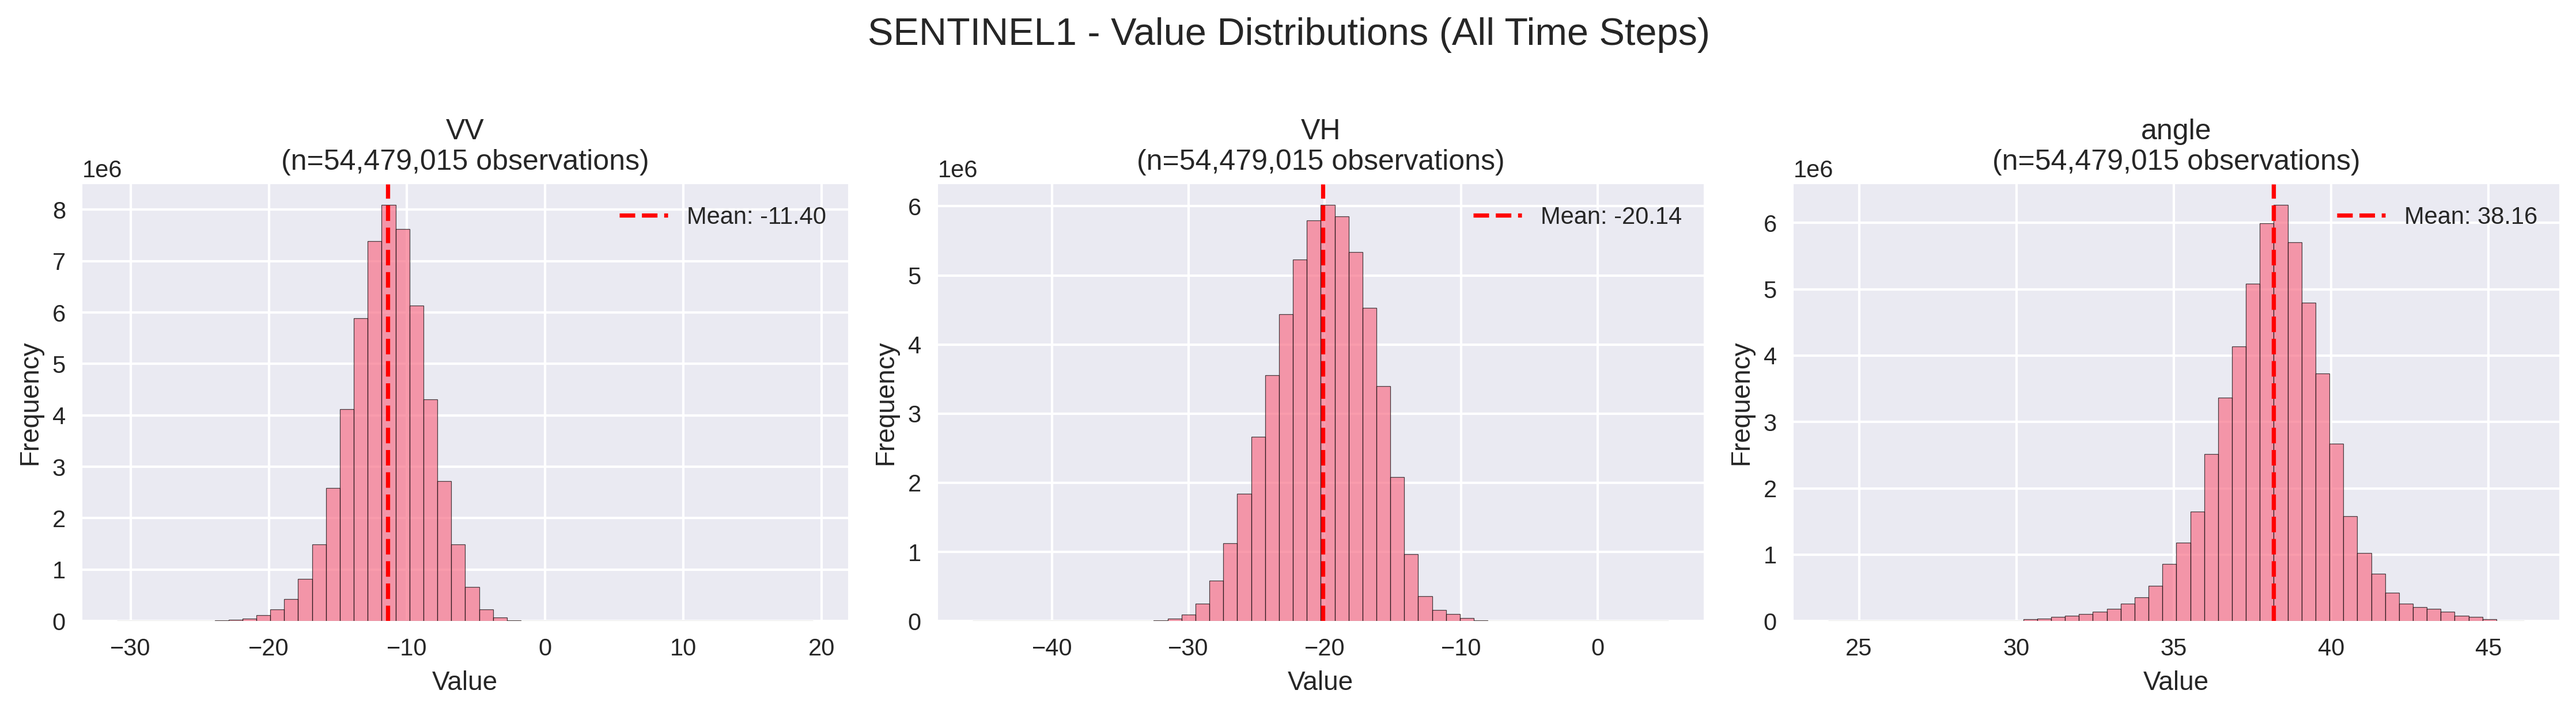
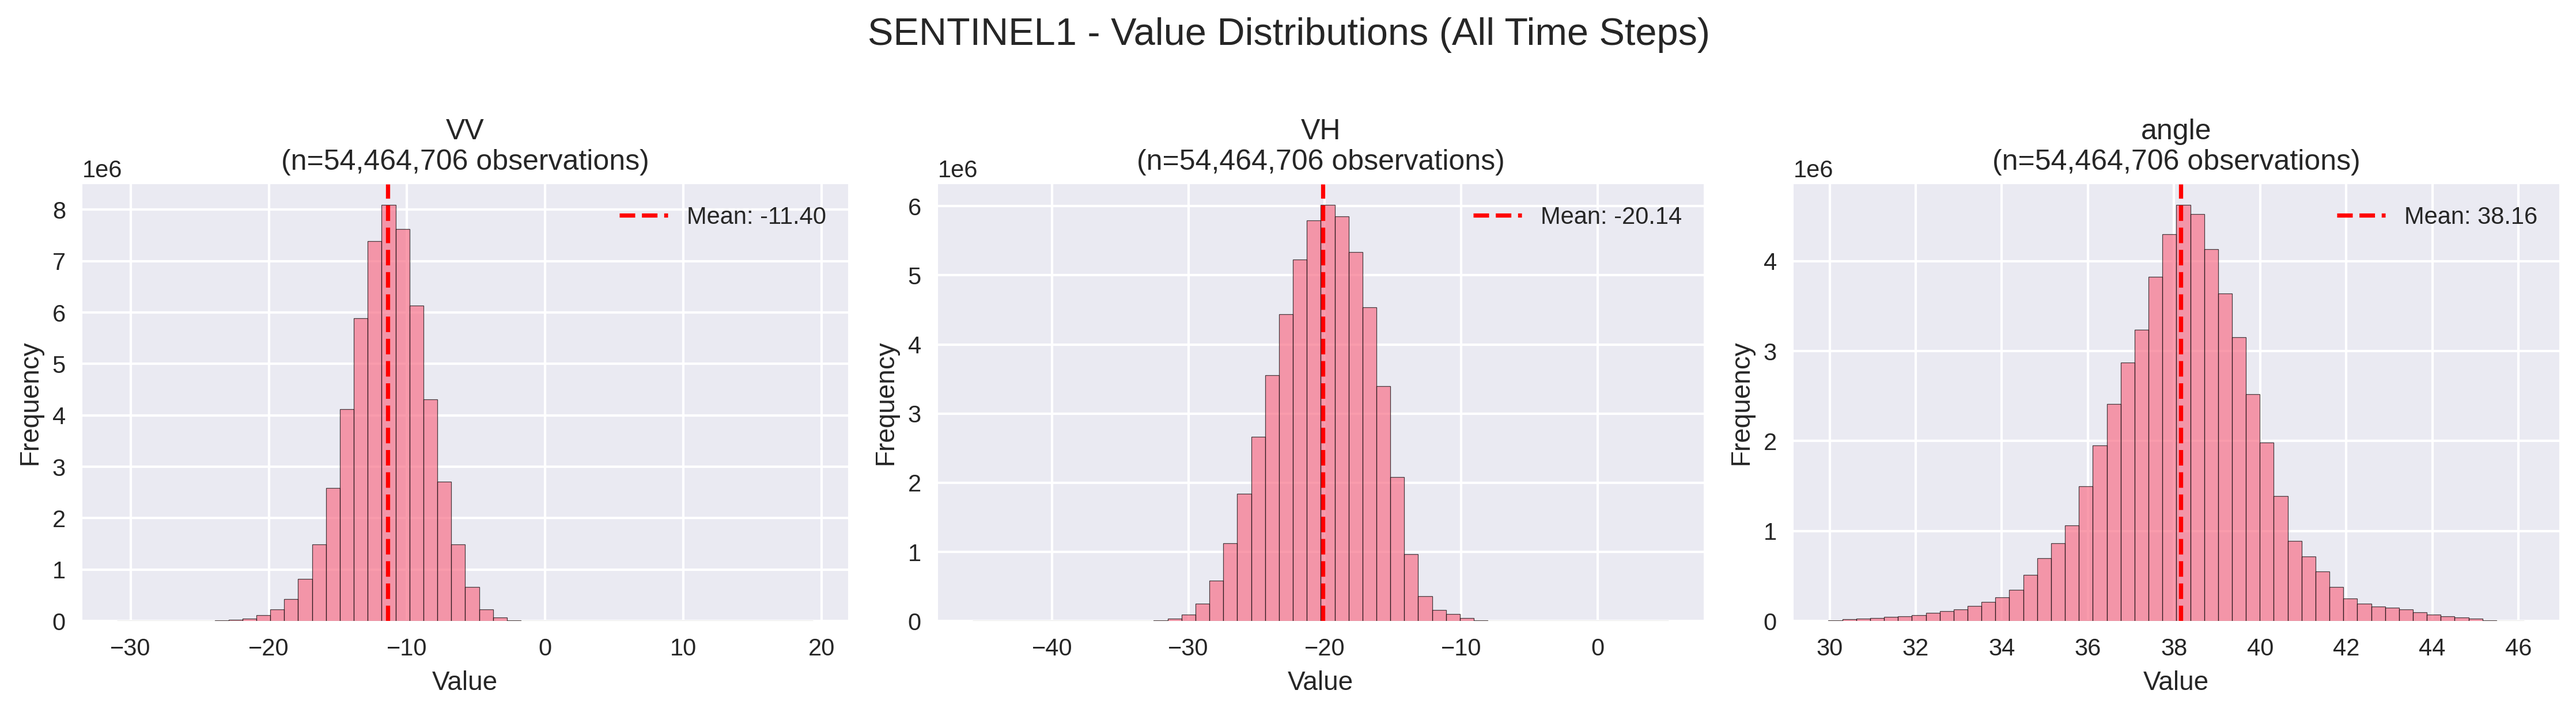
updated cleaning code to keep nan values

diff --git a/src/cropfm/data/clean_data_old.py b/src/cropfm/data/clean_data_old.py
@@ -136,6 +136,66 @@ def remove_trailing_nans(data, timestamps, valid_mask):
     
     return trimmed_data_list, trimmed_timestamps_list, trimmed_valid_mask_list
 
+def interpolate_no_data_values(data, no_data_value, interpolation_method='linear'):
+    """
+    Interpolate no_data values (typically 0) in the data.
+    
+    Args:
+        data: (max_time, n_vars) array
+        no_data_value: value to replace (e.g., 0)
+        interpolation_method: 'linear' or 'cubic'
+    
+    Returns:
+        data with no_data values interpolated
+    """
+    if len(data) == 0:
+        return data
+    
+    interpolated_data = data.copy()
+    n_time, n_vars = data.shape
+    
+    for var_idx in range(n_vars):
+        var_data = data[:, var_idx]
+        
+        # Find indices where data is valid (not NaN and not no_data_value)
+        valid_mask = (~np.isnan(var_data)) & (var_data != no_data_value)
+        valid_indices = np.where(valid_mask)[0]
+        
+        # Find indices that need interpolation
+        invalid_mask = (np.isnan(var_data)) | (var_data == no_data_value)
+        invalid_indices = np.where(invalid_mask)[0]
+        
+        if len(invalid_indices) == 0:
+            continue
+        
+        # Create interpolation function
+        try:
+            if interpolation_method == 'cubic' and len(valid_indices) >= 4:
+                interp_func = interp1d(
+                    valid_indices, 
+                    var_data[valid_indices], 
+                    kind='cubic',
+                    fill_value='extrapolate',
+                    bounds_error=False
+                )
+            else:
+                interp_func = interp1d(
+                    valid_indices, 
+                    var_data[valid_indices], 
+                    kind='linear',
+                    fill_value='extrapolate',
+                    bounds_error=False
+                )
+            
+            # Interpolate only for invalid indices
+            interpolated_values = interp_func(invalid_indices)
+            interpolated_data[invalid_indices, var_idx] = interpolated_values
+        except:
+            # If interpolation fails, leave as is
+            pass
+    
+    return interpolated_data
+
 
 def get_week_key(dt):
     """Get year-week key for grouping"""
@@ -143,7 +203,7 @@ def get_week_key(dt):
         return None
     return f"{dt.year}-W{dt.isocalendar()[1]:02d}"
 
-def aggregate_to_weekly(data, timestamps, modality_name, aggregation_method='mean'):
+def aggregate_to_weekly(data, timestamps, aggregation_method='mean'):
     """
     Aggregate temporal data to weekly resolution using pandas resample (much faster).
     Always returns exactly 52 weeks, interpolating missing weeks.
@@ -180,12 +240,6 @@ def aggregate_to_weekly(data, timestamps, modality_name, aggregation_method='mea
     # Filter to valid timestamps and data
     valid_timestamps = timestamps_series[valid_mask]
     valid_data = data[valid_mask]
-
-    # Treat modality-specific no_data values as NaN before aggregation
-    if modality_name == 'fapar':
-        valid_data = np.where(valid_data == NO_DATA_VALUE.get('fapar', 0), np.nan, valid_data)
-    elif modality_name == 'sentinel2':
-        valid_data = np.where(valid_data == NO_DATA_VALUE.get('sentinel2', 0), np.nan, valid_data)
     
     # Determine the year from the first timestamp
     year = valid_timestamps[0].year
@@ -228,8 +282,32 @@ def aggregate_to_weekly(data, timestamps, modality_name, aggregation_method='mea
         if week_key in all_week_keys:
             week_idx = all_week_keys.index(week_key)
             weekly_data_full[week_idx] = row_data
-            # mark valid if any non-NaN value exists in this week
-            weekly_valid_mask[week_idx] = ~np.isnan(row_data).all()
+            weekly_valid_mask[week_idx] = True
+    
+    # Interpolate missing weeks for each variable
+    for var_idx in range(n_vars):
+        var_data = weekly_data_full[:, var_idx]
+        if np.any(np.isnan(var_data)):
+            valid_indices = np.where(~np.isnan(var_data))[0]
+            if len(valid_indices) > 1:
+                if len(valid_indices) < 10:
+                    print('----------------------------------- less than 10 valid indices -----------------------------------')
+                # Use linear interpolation (works with 2+ points, more robust than cubic)
+                try:
+                    interp_func = interp1d(valid_indices, var_data[valid_indices], 
+                                         kind='linear', fill_value='extrapolate', 
+                                         bounds_error=False)
+                    all_indices = np.arange(52)
+                    var_data_interp = interp_func(all_indices)
+                    weekly_data_full[:, var_idx] = var_data_interp
+                except Exception as e:
+                    # If interpolation fails, leave as NaN
+                    print(f"Warning: Interpolation failed for variable {var_idx}: {e}")
+            elif len(valid_indices) == 1:
+                # Only one data point - repeat for all 52 weeks
+                print('----------------------------------------------------- only one data point -----------------------------------------------------')
+                single_value = var_data[valid_indices[0]]
+                weekly_data_full[:, var_idx] = single_value
     
     weekly_timestamps = np.array(all_week_keys)
     
@@ -332,8 +410,7 @@ def main(args):
             # Aggregate to weekly
             weekly_data, weekly_timestamps, weekly_valid_mask = aggregate_to_weekly(
                 sample_data, 
-                sample_timestamps,
-                modality_name,
+                sample_timestamps, 
                 aggregation_method='mean' # hardcoded for now
             )
             
@@ -346,7 +423,126 @@ def main(args):
                 aggregated_timestamps_out[i, :n_weeks_to_use] = weekly_timestamps[:n_weeks_to_use]
                 aggregated_valid_mask_out[i, :n_weeks_to_use] = weekly_valid_mask[:n_weeks_to_use]
 
-        # Step 2 & 3 removed: we keep NaNs for missing/no_data and rely on valid_mask to indicate usable entries
+        
+        # Step 2: Check for NaN values in aggregated data (only in valid positions)
+        print(f"  Checking for NaN values after aggregation...")
+        # Only check positions where valid_mask is True
+        valid_positions = aggregated_valid_mask_out
+        if np.any(valid_positions):
+            valid_data = aggregated_data_out[valid_positions]
+            nan_count = np.sum(np.isnan(valid_data))
+            if nan_count > 0:
+                total_valid = valid_data.size
+                nan_percentage = nan_count / total_valid * 100
+                
+                print(f"\n  ⚠ NaN DETECTION DETAILS for {modality_name}:")
+                print(f"    Total NaN values: {nan_count:,} / {total_valid:,} ({nan_percentage:.2f}%)")
+                
+                # Check NaN distribution across variables
+                print(f"\n    NaN distribution by variable:")
+                for var_idx, var_name in enumerate(variable_names):
+                    var_data = aggregated_data_out[:, :, var_idx]  # (n_samples, max_weeks)
+                    var_valid_data = var_data[valid_positions]
+                    var_nan_count = np.sum(np.isnan(var_valid_data))
+                    if var_nan_count > 0:
+                        var_nan_pct = var_nan_count / len(var_valid_data) * 100
+                        print(f"      {var_name}: {var_nan_count:,} NaNs ({var_nan_pct:.2f}%)")
+                
+                # Find samples with NaNs
+                samples_with_nans = []
+                for i in range(n_samples):
+                    sample_data = aggregated_data_out[i]  # (max_weeks, n_vars)
+                    sample_mask = aggregated_valid_mask_out[i]  # (max_weeks,)
+                    if np.any(sample_mask):
+                        sample_valid_data = sample_data[sample_mask]
+                        if np.any(np.isnan(sample_valid_data)):
+                            nan_in_sample = np.sum(np.isnan(sample_valid_data))
+                            total_in_sample = sample_valid_data.size
+                            samples_with_nans.append((i, nan_in_sample, total_in_sample))
+                
+                print(f"\n    Samples with NaNs: {len(samples_with_nans):,} / {n_samples:,} ({len(samples_with_nans)/n_samples*100:.2f}%)")
+                
+                # Show first 10 samples with NaNs
+                if len(samples_with_nans) > 0:
+                    print(f"\n    First 10 samples with NaNs:")
+                    for sample_idx, nan_count_sample, total_count_sample in samples_with_nans[:10]:
+                        nan_pct_sample = nan_count_sample / total_count_sample * 100
+                        print(f"      Sample {sample_idx}: {nan_count_sample}/{total_count_sample} NaNs ({nan_pct_sample:.2f}%)")
+                    
+                    # Show detailed example of first sample with NaNs
+                    example_idx = samples_with_nans[0][0]
+                    example_data = aggregated_data_out[example_idx]  # (max_weeks, n_vars)
+                    example_mask = aggregated_valid_mask_out[example_idx]  # (max_weeks,)
+                    example_timestamps = aggregated_timestamps_out[example_idx]  # (max_weeks,)
+                    
+                    print(f"\n    Example sample {example_idx} details:")
+                    print(f"      Valid weeks: {np.sum(example_mask)}")
+                    valid_weeks = np.where(example_mask)[0]
+                    
+                    # Check which weeks have NaNs
+                    weeks_with_nans = []
+                    for week_idx in valid_weeks:
+                        week_data = example_data[week_idx]  # (n_vars,)
+                        if np.any(np.isnan(week_data)):
+                            nan_var_indices = np.where(np.isnan(week_data))[0]
+                            nan_var_names = [variable_names[i] for i in nan_var_indices]
+                            weeks_with_nans.append((week_idx, example_timestamps[week_idx], nan_var_names))
+                    
+                    if len(weeks_with_nans) > 0:
+                        print(f"      Weeks with NaNs: {len(weeks_with_nans)}")
+                        print(f"      First 5 weeks with NaNs:")
+                        for week_idx, ts, nan_var_names in weeks_with_nans[:5]:
+                            print(f"        Week {week_idx} ({ts}): NaNs in {nan_var_names}")
+                    
+                    # Show full data for first few valid weeks
+                    print(f"\n      Data for first 5 valid weeks:")
+                    for week_idx in valid_weeks[:5]:
+                        week_data = example_data[week_idx]
+                        ts = example_timestamps[week_idx]
+                        nan_mask = np.isnan(week_data)
+                        print(f"        Week {week_idx} ({ts}): {week_data} (NaNs: {np.sum(nan_mask)})")
+                
+                # Check NaN distribution across weeks
+                print(f"\n    NaN distribution across weeks:")
+                for week_idx in range(max_timesteps):
+                    week_data = aggregated_data_out[:, week_idx, :]  # (n_samples, n_vars)
+                    week_mask = aggregated_valid_mask_out[:, week_idx]  # (n_samples,)
+                    if np.any(week_mask):
+                        week_valid_data = week_data[week_mask]
+                        week_nan_count = np.sum(np.isnan(week_valid_data))
+                        if week_nan_count > 0:
+                            week_nan_pct = week_nan_count / week_valid_data.size * 100
+                            print(f"      Week {week_idx}: {week_nan_count:,} NaNs ({week_nan_pct:.2f}%)")
+                
+                raise ValueError(
+                    f"\nFound {nan_count:,}/{total_valid:,} NaN values ({nan_percentage:.2f}%) "
+                    f"in aggregated data for {modality_name}. This should not happen after aggregation.\n"
+                    f"See detailed statistics above for more information."
+                )
+            else:
+                print(f"  ✓ No NaN values found in aggregated data")
+        else:
+            print(f"  ⚠ No valid data positions found")
+        
+        # Step 3: Clean the aggregated data (interpolate no_data values)
+        print(f"  Cleaning aggregated data (interpolating no_data values)...")
+        no_data_value = NO_DATA_VALUE.get(modality_name, 0)
+        for i in range(n_samples):
+            sample_weekly_data = aggregated_data_out[i]  # (max_timesteps, n_vars)
+            sample_valid_mask = aggregated_valid_mask_out[i]  # (max_timesteps,)
+            
+            # Only clean valid positions
+            if np.any(sample_valid_mask):
+                valid_indices = np.where(sample_valid_mask)[0]
+                if len(valid_indices) > 0:
+                    valid_data = sample_weekly_data[valid_indices]  # (n_valid_weeks, n_vars)
+                    cleaned_data = interpolate_no_data_values(
+                        valid_data,
+                        no_data_value,
+                        interpolation_method='linear'
+                    )
+                    aggregated_data_out[i, valid_indices] = cleaned_data
+        
         root_out['temporal_modalities'][modality_name].create_array(
             'data', 
             data=aggregated_data_out, 

diff --git a/src/cropfm/data/compute_norm_stats.py b/src/cropfm/data/compute_norm_stats.py
@@ -135,8 +135,8 @@ def compute_temporal_stats(root):
     return stats
 
 def main():
-    input_zarr_path = '/lustre/scratch/WUR/AIN/nedun001/CropFM/data/zarr_files/europe_data_1200_merged.zarr'
-    stats_output_path = Path('/lustre/scratch/WUR/AIN/nedun001/CropFM/data/zarr_files/normalization_stats_raw.json')
+    input_zarr_path = '/lustre/scratch/WUR/AIN/nedun001/CropFM/data/zarr_files/europe_data_1200_merged_cleaned.zarr'
+    stats_output_path = Path('/lustre/scratch/WUR/AIN/nedun001/CropFM/data/zarr_files/normalization_stats.json')
     
     print("=" * 80)
     print("COMPUTE NORMALIZATION STATISTICS")
